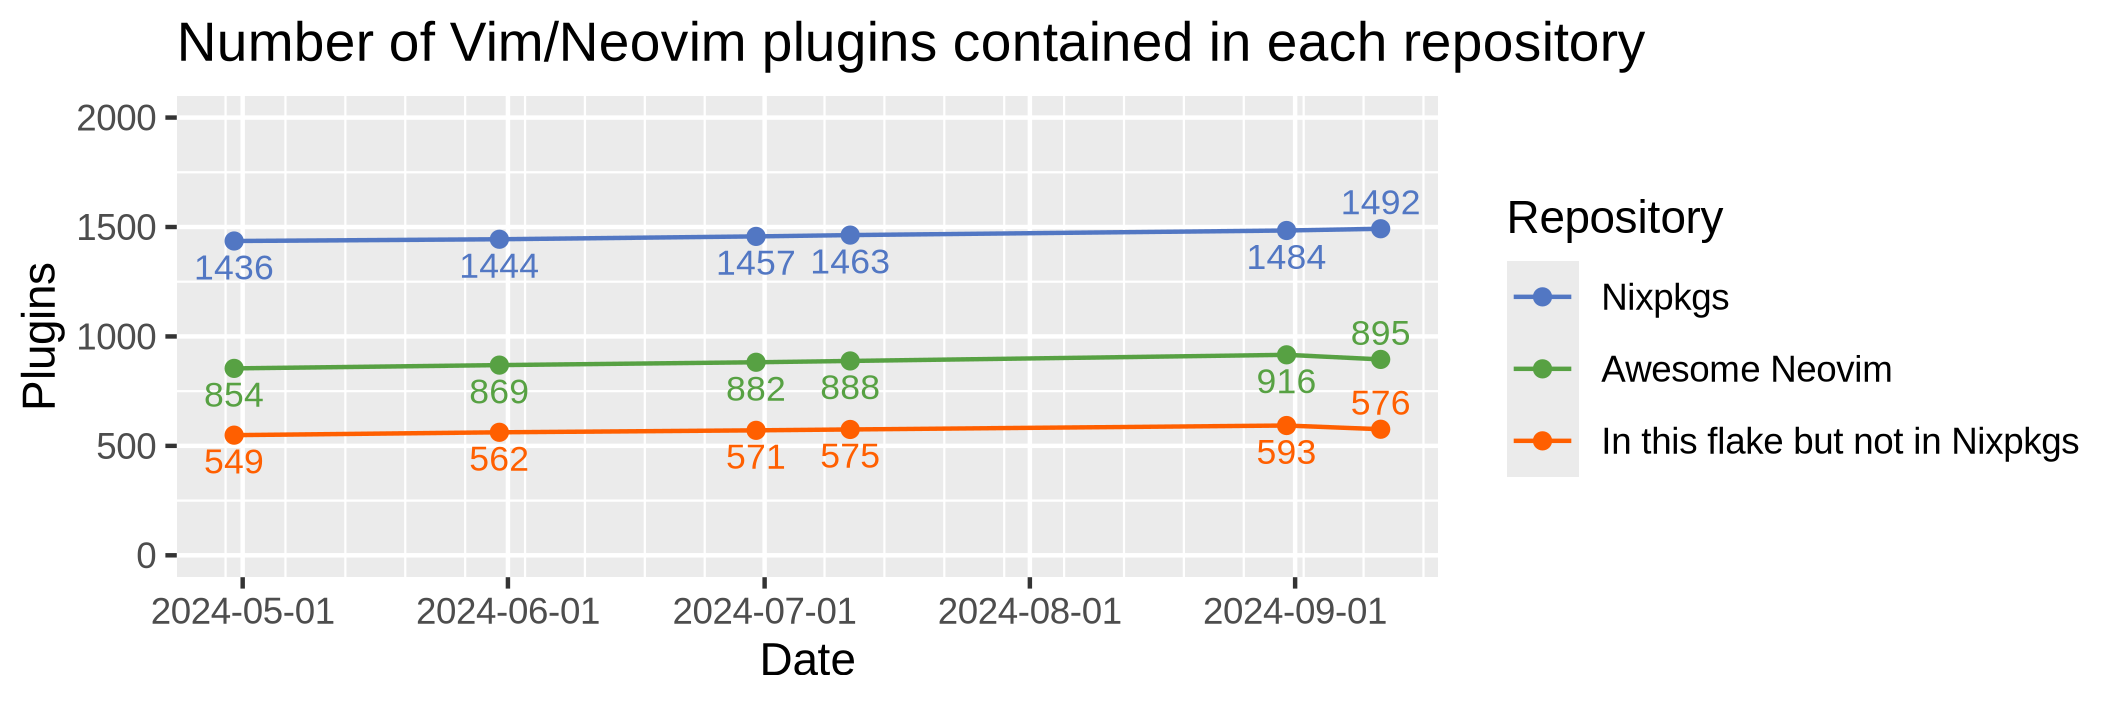
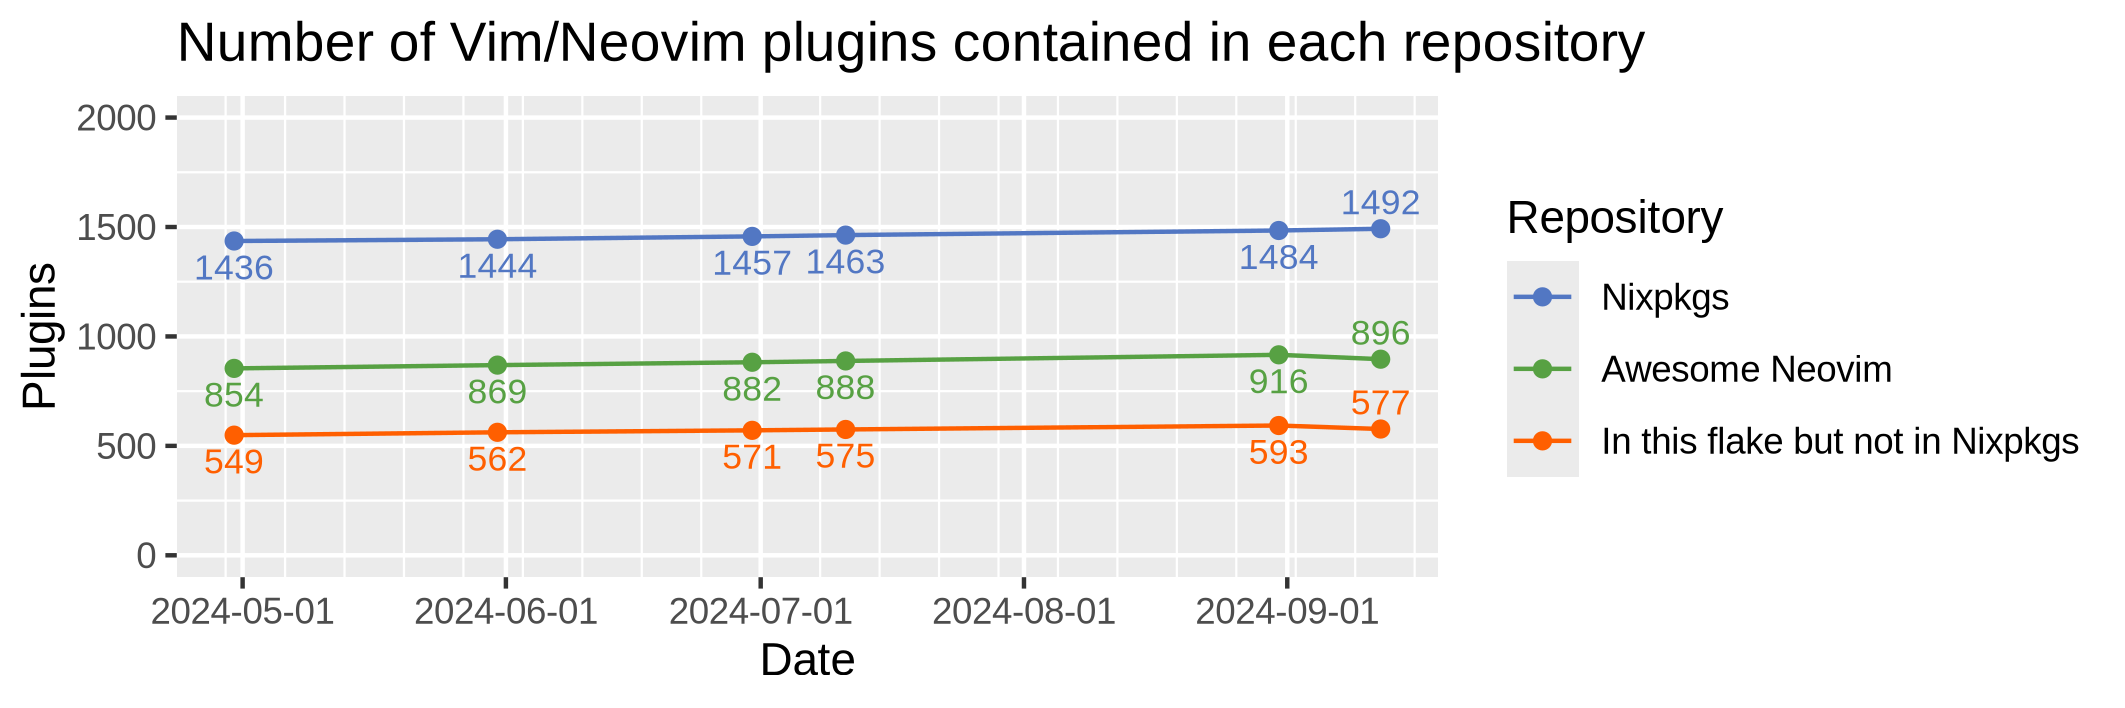
auto: update vim plugins

diff --git a/README.md b/README.md
@@ -8,7 +8,7 @@ Nix flake of Awesome Neovim plugins.
 
 [b1]: https://img.shields.io/github/actions/workflow/status/m15a/flake-awesome-neovim-plugins/check.yml?style=flat-square&logo=github&label=CI
 [b2]: https://github.com/m15a/flake-awesome-neovim-plugins/actions/workflows/check.yml
-[b3]: https://img.shields.io/badge/Awesome_Neovim_plugins-895-57A143?style=flat-square
+[b3]: https://img.shields.io/badge/Awesome_Neovim_plugins-896-57A143?style=flat-square
 [b4]: https://img.shields.io/endpoint?url=https://flakehub.com/f/m15a/flake-awesome-neovim-plugins/badge&style=flat-square
 [b5]: https://flakehub.com/flake/m15a/flake-awesome-neovim-plugins
 
